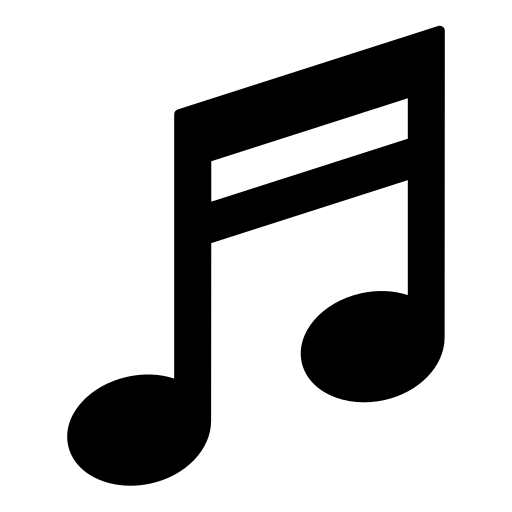
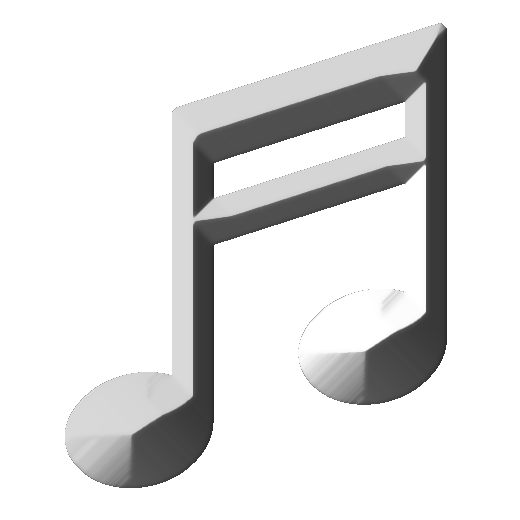
Minor visual update
Updated CSS values and improved visibility to note.png by adding bevel

Changed region(s): [[0.125, 0.0312, 0.875, 0.9688]]

diff --git a/captcha/captcha.html b/captcha/captcha.html
@@ -228,13 +228,13 @@
       top: 0%;
     }
     #notes{
-      background: rgb(229, 229, 229);
+      background: rgb(30, 30, 30);
       background-image: url('img/note.png');
-      background-blend-mode:difference;
+      background-blend-mode: lighten;
       background-position: center;
       background-repeat: no-repeat;
       background-size: 25px 25px;
-      color: #121212;
+      color: #ffffff;
       height: 30px;
       Width: 40px;
       font-family: "Montserrat", sans-serif;
@@ -250,16 +250,16 @@
       left: 18px;
       padding: 1px;
       border-radius: 6px;
-      border: 2px outset rgb(0, 0, 0);
+      border: 2px outset rgb(255, 255, 255);
     }
     .inner-curve {
       --r: 0px; /* the radius */
       --s: 10px; /* size of inner curve */
       --x: 14px; /* horizontal offset (no percentage) */
-      --y: 16px; /* vertical offset (no percentage) */
+      --y: 17px; /* vertical offset (no percentage) */
 
       position: absolute;
-      bottom: -1px;
+      bottom: 0px;
       z-index: 20;
       
       width: 34px;
@@ -285,7 +285,7 @@
     }
     #curve-right{
       display: block;
-      right: 0px;
+      right: -1px;
         border-radius: var(--r);
       --_m:/calc(2*var(--r)) calc(2*var(--r)) radial-gradient(#000 70%,#0000 72%);
       --_g:conic-gradient(at var(--r) var(--r),#000 75%,#0000 0);
